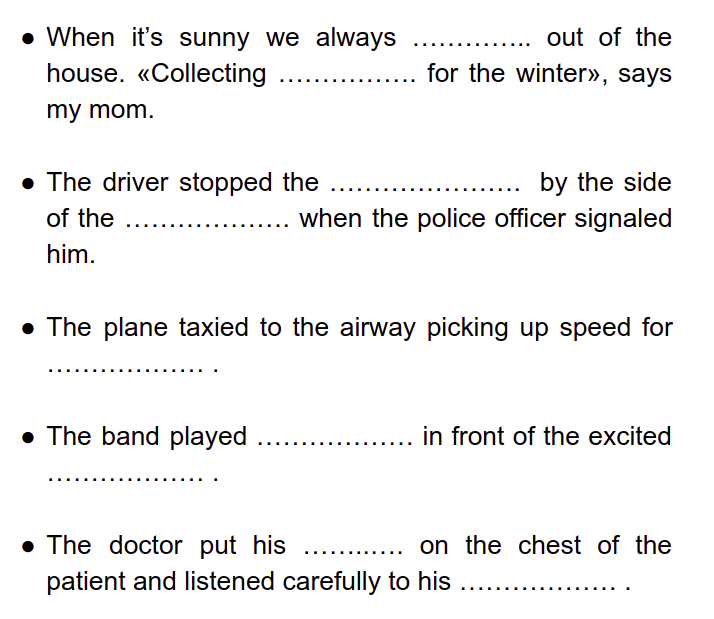
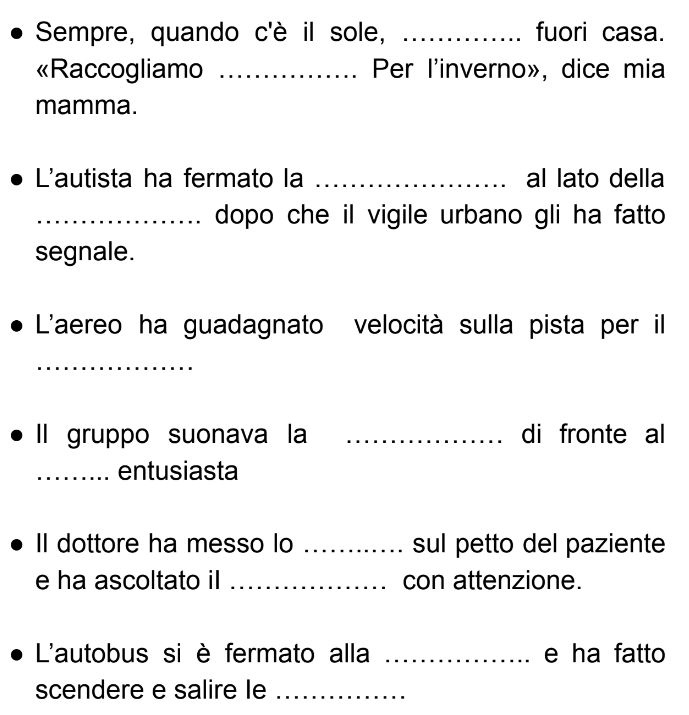
- Bumped version - Added content in Italian (exercises links & images)

diff --git a/src/pages/about/about.ts b/src/pages/about/about.ts
@@ -15,7 +15,7 @@ import {AppVersion} from '@ionic-native/app-version';
 })
 export class AboutPage {
 
-  version: string = '1.5.0';
+  version: string = '2.0.0-rc.1';
 
   constructor(public navCtrl: NavController, public navParams: NavParams, private appVersion: AppVersion, public platform: Platform) {
   }

diff --git a/src/app/app.component.ts b/src/app/app.component.ts
@@ -21,7 +21,7 @@ export class MyApp {
   @ViewChild(Nav) nav: Nav;
 
   rootPage: any = 'HomePage';
-  appVersionName: string = '1.5.0';
+  appVersionName: string = '2.0.0-rc.1';
 
   pages: Array<{ title: string, id?: any, component?: any, pageFile?: string, pageCode?: string }>;
   languages = [
